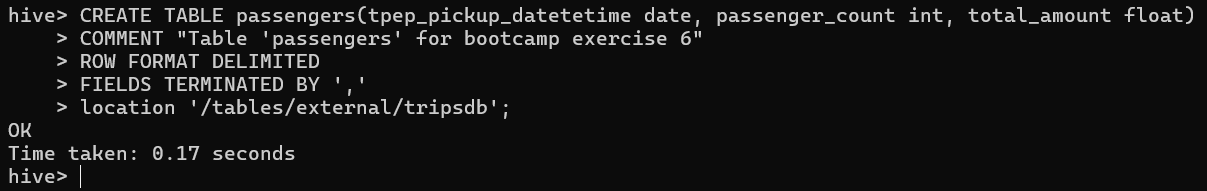
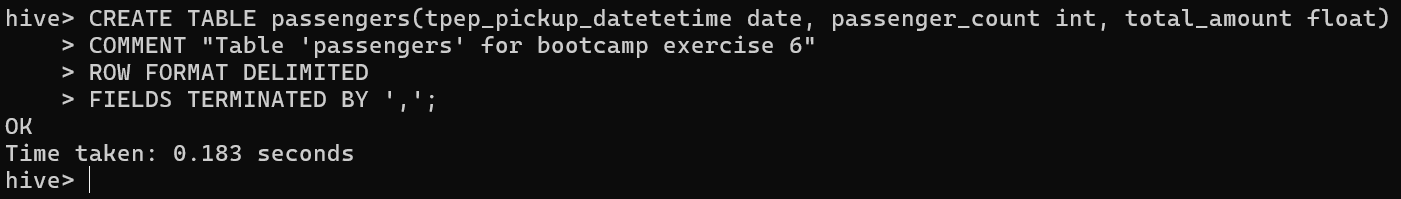
fix screenshots

Changed region(s): [[0.0, 0.0262, 1.0, 0.6021], [0.0, 0.5759, 0.2759, 0.8377], [0.0, 0.8639, 0.0613, 0.9686]]

diff --git a/Clase 6/readme.md b/Clase 6/readme.md
@@ -8,11 +8,10 @@
 CREATE TABLE payments(VendorID int, tpep_pickup_datetetime date, payment_type STRING, total_amount float)
 COMMENT "Table 'payments' for bootcamp exercise 6"
 ROW FORMAT DELIMITED
-FIELDS TERMINATED BY ','
-location '/tables/external/tripsdb';
+FIELDS TERMINATED BY ',';
 ```
 
-![Creacion tabla 'payments' en Hive](imgs/image.png)
+![Creacion tabla Payments en Hive](imgs/image.png)
 
 * `passengers(tpep_pickup_datetetime, passenger_count, total_amount)`
 
@@ -20,11 +19,10 @@ location '/tables/external/tripsdb';
 CREATE TABLE passengers(tpep_pickup_datetetime date, passenger_count int, total_amount float)
 COMMENT "Table 'passengers' for bootcamp exercise 6"
 ROW FORMAT DELIMITED
-FIELDS TERMINATED BY ','
-location '/tables/external/tripsdb';
+FIELDS TERMINATED BY ',';
 ```
 
-![Creacion tabla 'passengers' en Hive](imgs/image1.png)
+![Creacion tabla passengers en Hive](imgs/image1.png)
 
 * `tolls(tpep_pickup_datetetime, passenger_count, tolls_amount, total_amount)`
 
@@ -32,8 +30,7 @@ location '/tables/external/tripsdb';
 CREATE TABLE tolls(tpep_pickup_datetetime date, passenger_count int, tolls_amount float, total_amount float)
 COMMENT "Table 'tolls' for bootcamp exercise 6"
 ROW FORMAT DELIMITED
-FIELDS TERMINATED BY ','
-location '/tables/external/tripsdb';
+FIELDS TERMINATED BY ',';
 ```
 
 ![Creacion tabla 'tolls' en Hive](imgs/image2.png)
@@ -44,8 +41,7 @@ location '/tables/external/tripsdb';
 CREATE TABLE congestion(tpep_pickup_datetetime date, passenger_count int, congestion_surcharge float, total_amount float)
 COMMENT "Table 'congestion' for bootcamp exercise 6"
 ROW FORMAT DELIMITED
-FIELDS TERMINATED BY ','
-location '/tables/external/tripsdb';
+FIELDS TERMINATED BY ',';
 ```
 
 ![Creacion tabla 'congestion' en Hive](imgs/image3.png)
@@ -56,12 +52,10 @@ location '/tables/external/tripsdb';
 CREATE TABLE distance(tpep_pickup_datetetime date, passenger_count int, trip_distance float, total_amount float)
 COMMENT "Table 'distance' for bootcamp exercise 6"
 ROW FORMAT DELIMITED
-FIELDS TERMINATED BY ','
-location '/tables/external/tripsdb';
+FIELDS TERMINATED BY ',';
 ```
 
 ![Creacion tabla 'distance' en Hive](imgs/image4.png)
-
 
 ## 2. En Hive, hacer un ‘describe’ de las tablas passengers y distance
 
@@ -80,3 +74,14 @@ DESCRIBE distance;
 ```
 
 ![Descripcion tabla 'distance'](imgs/image6.png)
+
+## 3. Hacer ingest del file: *yellow_tripdata_2021-01.csv*
+
+HDFS
+
+```
+wget https://dataengineerpublic.blob.core.windows.net/data-engineer/yellow_tripdata_2021-01.csv
+```
+
+## 5. Insertar en la tabla payments (VendorID, tpep_pickup_datetetime, payment_type, total_amount). Solamente los pagos con tarjeta de crédito.
+
